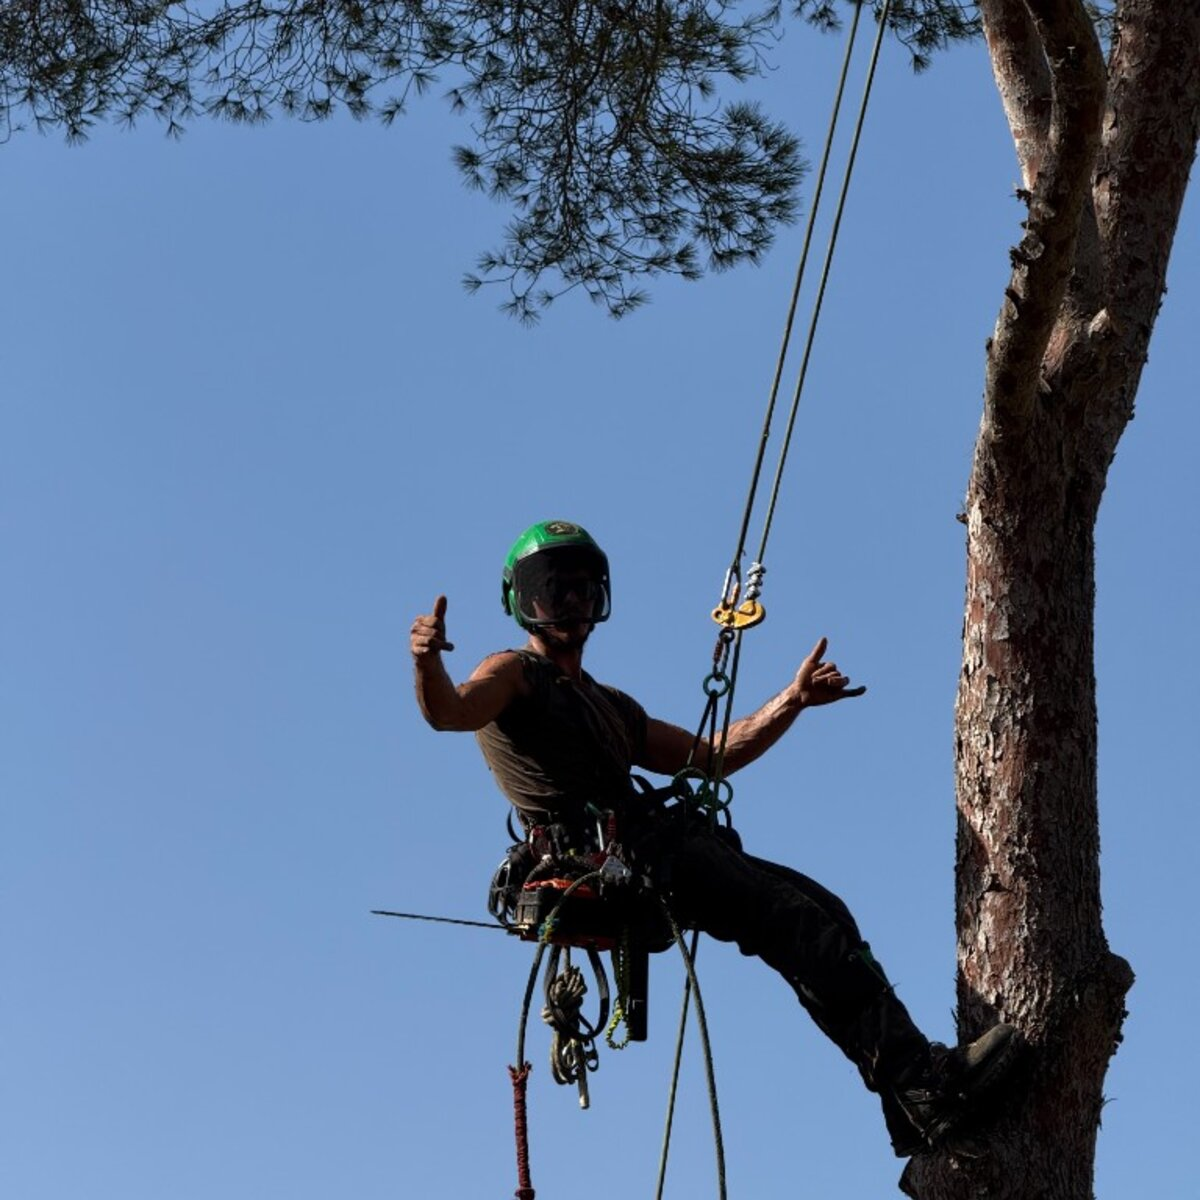
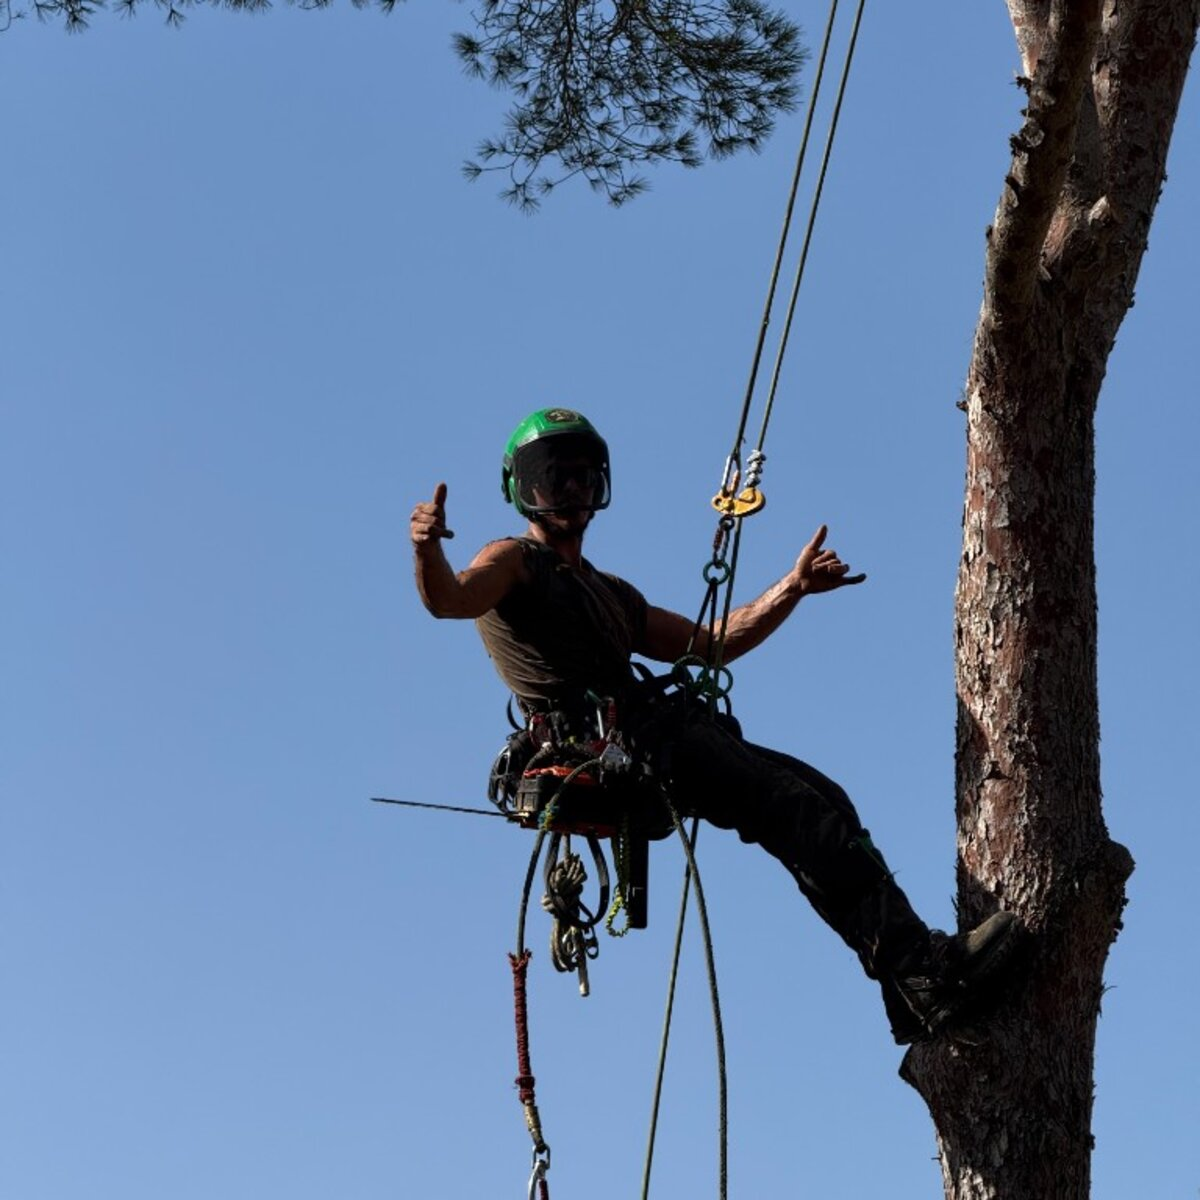
push

Changed region(s): [[0.0, 0.0, 1.0, 1.0]]

diff --git a/index.html b/index.html
@@ -50,7 +50,7 @@
       href="https://fonts.googleapis.com/css2?family=Public+Sans:wght@400;600;700&family=Work+Sans:wght@600;700;800&display=swap"
       rel="stylesheet"
     />
-    <link rel="stylesheet" href="css/styles.css?v=105" />
+    <link rel="stylesheet" href="css/styles.css?v=107" />
     <script type="application/ld+json">
       {
         "@context": "https://schema.org",
@@ -345,10 +345,10 @@
           <div class="about-hero__media">
             <div class="about-hero__photo">
               <img
-                src="assets/about/arborist.jpg?v=2"
+                src="assets/about/arborist-james.jpg?v=1"
                 alt="Arborist James Nokes climbing a pine tree in full safety gear"
-                width="1200"
-                height="1200"
+                width="768"
+                height="1024"
               />
             </div>
           </div>

diff --git a/contact.html b/contact.html
@@ -46,7 +46,7 @@
       href="https://fonts.googleapis.com/css2?family=Public+Sans:wght@400;600;700&family=Work+Sans:wght@600;700;800&display=swap"
       rel="stylesheet"
     />
-    <link rel="stylesheet" href="css/styles.css?v=105" />
+    <link rel="stylesheet" href="css/styles.css?v=107" />
     <script type="application/ld+json">
       {
         "@context": "https://schema.org",

diff --git a/css/styles.css b/css/styles.css
@@ -505,7 +505,8 @@ button {
   width: 100%;
   height: 100%;
   object-fit: cover;
-  object-position: center center;
+  /* Bias to lower part of portrait so James sits higher in the square frame */
+  object-position: center 72%;
   display: block;
 }
 
